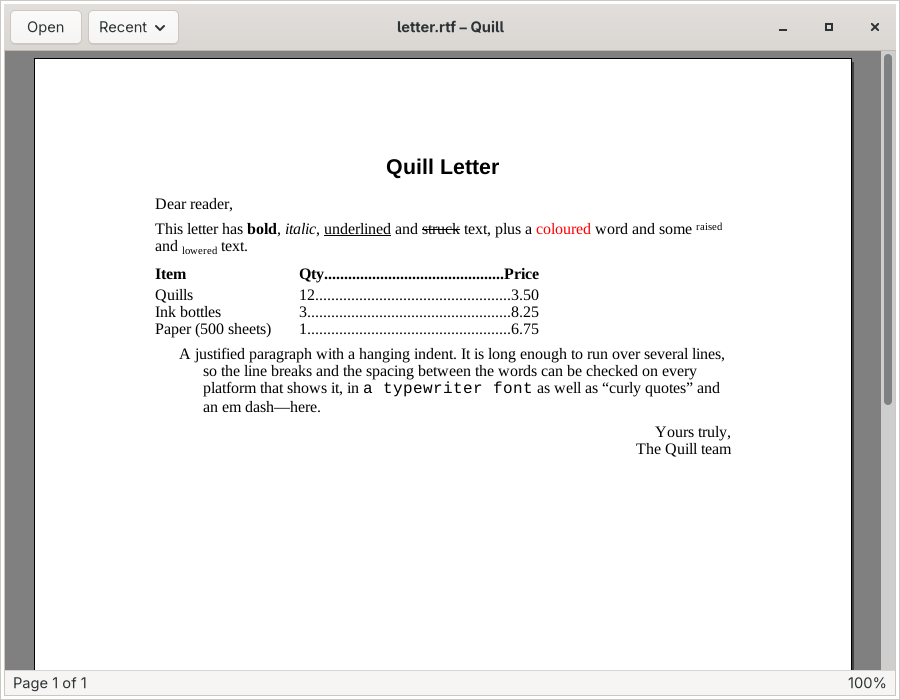
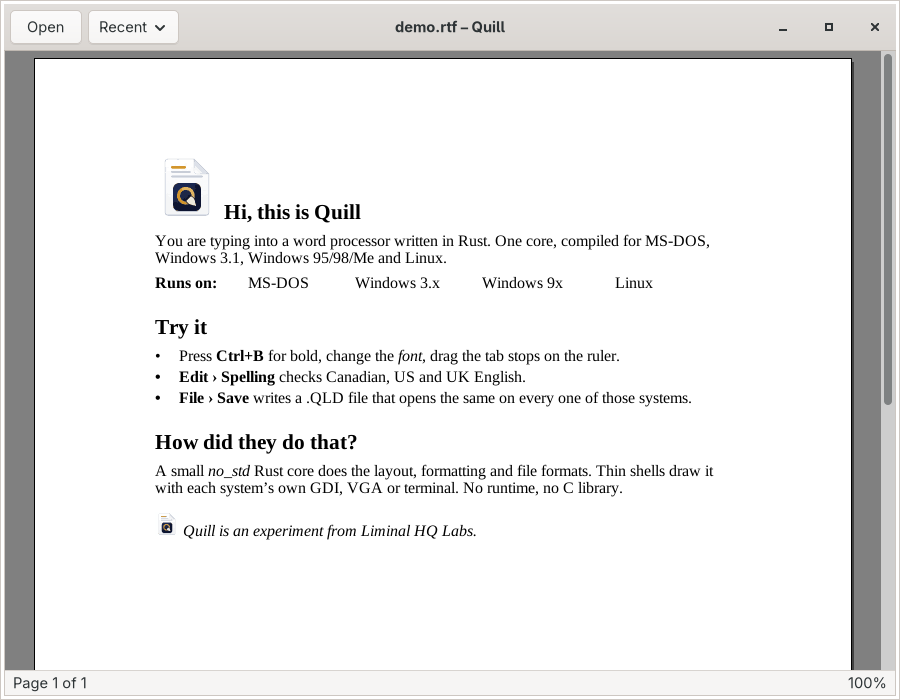
test(linux): open the shipped samples in the viewer test
**What:** the viewer's every-document test now also opens each `.rtf`
and `.qld` in `samples`, so the demo document that ships is drawn at
scales 1.0, 1.25 and 1.5. The 1x screenshot in `docs/media` shows it.

**Check:** `tools/frames.sh samples/demo.rtf` gave 100.000 % equal in
every frame, pictures included.

diff --git a/docs/progress.md b/docs/progress.md
@@ -13,7 +13,7 @@ What is built, how it was shown to work, what is blocked and what was assumed. U
 
 | Step | State | Notes |
 |---|---|---|
-| GTK4 viewer (G1) | Done on the host, Xvfb and a headless Weston; fractional scales only in GTK's offscreen renderer | `linux/quill-gtk` builds `quill`, a read-only viewer: open from the command line, the Open dialog, the recent list and drag and drop; wheel, keys and scroll bars; Ctrl+wheel, Ctrl+plus, Ctrl+minus, Ctrl+0 and Ctrl+9 zoom; `Page X of N` and the zoom in the status line; the title function with the `*` mark; the window size in `gtk.ini` and the recent files and zoom in `QUILL.INI`; a dark desk that follows GTK's colour scheme with the paper white (LNX-1 to LNX-6). The page is `quill_paint::pixel` through `paint_sheet` into a device-size texture, kept until something changes. Proved: 31 tests (`cd linux/quill-gtk && cargo test`: every `.rtf` and `.qld` in `tests/docs` opens and draws, the layout dumps at 1440 equal the P4 goldens, three pixel goldens, the view model, names, settings and the next-session round trip); `linux/quill-gtk/tools/frames.sh` shows the page 100.000 % equal to its texture in an X capture at scale 1 and at `GDK_SCALE=2` and in GTK's own render at 1.0, 1.25, 1.5, 1.75 and 2.0; a headless Weston at scale 2 gave the same; the keys and the Open dialog were driven. Not done: a fractional scale on a real compositor (Weston has none), choosing a file in the dialog, a drop from a file manager, F11, the hand-off to a running window, IME and Orca (G2, G7), the `linux` CI job (G8) |
+| GTK4 viewer (G1) | Done on the host, Xvfb and a headless Weston; fractional scales only in GTK's offscreen renderer | `linux/quill-gtk` builds `quill`, a read-only viewer: open from the command line, the Open dialog, the recent list and drag and drop; wheel, keys and scroll bars; Ctrl+wheel, Ctrl+plus, Ctrl+minus, Ctrl+0 and Ctrl+9 zoom; `Page X of N` and the zoom in the status line; the title function with the `*` mark; the window size in `gtk.ini` and the recent files and zoom in `QUILL.INI`; a dark desk that follows GTK's colour scheme with the paper white (LNX-1 to LNX-6). The page is `quill_paint::pixel` through `paint_sheet` into a device-size texture, kept until something changes. Proved: 31 tests (`cd linux/quill-gtk && cargo test`: every `.rtf` and `.qld` in `tests/docs` and `samples` opens and draws, the layout dumps at 1440 equal the P4 goldens, three pixel goldens, the view model, names, settings and the next-session round trip); `linux/quill-gtk/tools/frames.sh` shows the page 100.000 % equal to its texture in an X capture at scale 1 and at `GDK_SCALE=2` and in GTK's own render at 1.0, 1.25, 1.5, 1.75 and 2.0; a headless Weston at scale 2 gave the same; the keys and the Open dialog were driven. Not done: a fractional scale on a real compositor (Weston has none), choosing a file in the dialog, a drop from a file manager, F11, the hand-off to a running window, IME and Orca (G2, G7), the `linux` CI job (G8) |
 | End of session | Done on Win16 and Win32; Linux and autosave pending | `QUILL.EXE` and `QUILL32.EXE` answer `WM_QUERYENDSESSION` with Exit's question and refuse on Cancel or a failed save, and write `QUILL.RCV` on `WM_ENDSESSION` and on a refusal (W16-8, W9X-8, CORE-7). `QUILL32.EXE` sets a shutdown block reason on Vista and later (W9X-9). Win16 data segment 31,504 to 31,560 bytes (184 free). Proved: unit tests; `win9x/tools/wine-endsession.sh` (Cancel, Yes and No under `wineboot --end-session`); `win16/tools/e2e-endsession-w31.sh` on Windows 3.11 in DOSBox-X (Exit Windows shows the question, Cancel keeps Windows, No ends it and leaves `QUILL.RCV`). On ReactOS 0.4.16 the question appears but Cancel does not stop the shutdown and no `WM_ENDSESSION` is sent, so the copy at refusal is what saves the text; the Win16 build under WineVDM there was not run. Not done: offering `QUILL.RCV` at the next start, deleting it after a save, the GTK4 inhibit and the terminal SIGHUP and SIGTERM catch, Restart Manager hooks for the installer, a run on real Vista or later |
 | Win9x editing | Done under Wine and on a real Windows 95 OSR2.5 in DOSBox-X at 640 by 480; Windows 98 and Me not run | Fixes from the hand test of `fix/win9x-layout`: page-width zoom with a View > Zoom submenu (page and ruler centred, no horizontal bar at 640 by 480), Ctrl shortcuts from key-down (Ctrl+I no longer types a tab), flat Windows 95 toolbar buttons, Insert > Page Number and Page Count in the body, print preview with its own bar of buttons and exact restore, bullet and numbered list Backspace and joins, vertical scroll bar, wheel, Page Up and Down, page edges, tooltips (COMCTL32 4.00) and status hints, mouse selection (click, drag, Shift+click, double, triple, margin), menu separators (DOS menus too), Save As that keeps the name when the type changes, and the recent-file list in the File menu. Host tests: `editing.rs` (model-based list test, hit-testing and shortening properties, shortcut audit); `win9x/tools/wine-editing.sh` for the window; screenshots in `docs/media/win9x-editing-*`. Fixed after the first hand test: the caret and clicks disagreed with the drawn text at Page Width (widths were measured under the zoom's mapping mode), and Save As upper-cased long names. Not proven: the mouse wheel on Windows 95 (the guest has no wheel driver, so `xdotool` button 4 and 5 reached nothing; `WM_MOUSEWHEEL` is proven under Wine, the `MSWHEEL_ROLLMSG` path is written from the documentation only), 800 by 600 and larger screens on real Windows 95 (the test bed's display change did not complete; Wine screenshots at 800 by 600 stand in), flicker, printing from the preview button |
 | M7 Pictures | Started | `quill-inflate` (streaming deflate, 32 KB window, checked against real zlib streams) and `quill-image`: BMP (1, 4, 8, 24 bits, both directions; RLE and 16 or 32 bits refused) and PNG (every colour type and depth, all filters, split IDAT; interlaced refused) decoded by rows, a box-filter row shrinker and a 16-colour ordered dither with a hashed golden. Pictures are now in documents: a picture table and pool (D77), picture boxes in layout, `PICT` in `.QLD`, Insert > Picture for BMP and PNG, and the DOS placeholder box (host, DOSBox and Wine scenario `m7-picture`). RTF `\pict` now reads and writes both kinds (PNG as `\pngblip`, BMP as `\dibitmap0`; the host tests round-trip the original bytes, and LibreOffice shows both pictures of `tests/docs/pictures.rtf` from the original and from Quill's rewrite). The Win32 page draws pictures (decoded by rows, scaled by a box filter to the shown size, cached three at a time; a failed or unaffordable picture is a grey box), checked under Wine (`docs/media/m7-pictures-win32-wine.png`). PNG chunk CRCs and the zlib Adler-32 are now checked. Under a store with a 1.5 MB budget (`crates/quill-host/tests/pictures.rs`) a 3 MB and an over-limit picture are refused, the pool gives back what it took and the document saves identical bytes; the DOSBox-X 4 MB run is not done. Not yet: printing of pictures, Win16 and the DOS graphics display, a real-Windows screenshot |

diff --git a/docs/linux.md b/docs/linux.md
@@ -188,11 +188,11 @@ The first GTK work is a spike that answers what is not known: whether GTK4 shows
 
 ### What was proved
 
-- **Opens every document.** `tests/viewer.rs` opens every `.rtf` and `.qld` in `tests/docs`, checks the title, draws it at scales of 1.0, 1.25 and 1.5, and checks the buffer's size, the white sheet and the ink on it.
+- **Opens every document.** `tests/viewer.rs` opens every `.rtf` and `.qld` in `tests/docs` and in `samples` (the demo document that ships included), checks the title, draws it at scales of 1.0, 1.25 and 1.5, and checks the buffer's size, the white sheet and the ink on it.
 - **The layout equals the goldens.** `Document::dump_layout` lays the open document out again at 1440 units to the inch with the vendored fonts and writes `dump_story`'s text; for `letter`, `lists`, `headers`, `pictures` and `plain` it equals `tests/golden/layout/*.outline-1440.txt` byte for byte. What the window shows is the same document laid out at 96, as the Windows and DOS graphics builds do; the 1440 dump proves the viewer reads the same document through the same code, not that the screen's line breaks are the dump's.
 - **Pixel goldens.** `tests/golden/gtk/letter.1.00.png`, `letter.1.50.png` and `lists.1.25.zoom125.dark.png` are the viewer's buffers at a display scale of 1.0, 1.5 and 1.25 with a zoom of 100, 100 and 125 %, compared byte for byte (the surface is deterministic software drawing, so no tolerance is needed; `QUILL_UPDATE_GOLDEN=1` rewrites them). `docs/media` shows what GTK does with them.
 - **The view model.** 23 unit tests cover the mapping, the device size, scroll limits, centring, sideways scroll, visible sheets, the status page, page keys, the zoom steps and limits, zooming around a point, page-width zoom, scroll bar ranges, the title, names, the stand-in names and settings. Two more tests check that recent files and zoom come back in the next session.
-- **The page is pixel-exact in a real frame.** `linux/quill-gtk/tools/frames.sh` (its own Xvfb; stops only that process) compares each frame with the texture the client says it drew, pixel for pixel: an X capture at scale 1 (876 × 619 pixels, 6,213 dark text pixels), an X capture at `GDK_SCALE=2` (1,752 × 1,238), and a capture from a headless Weston at scale 2 (3,576 × 2,350, run by hand). Every one is 100.000 % equal with a largest channel difference of 0.
+- **The page is pixel-exact in a real frame.** `linux/quill-gtk/tools/frames.sh` (its own Xvfb; stops only that process) compares each frame with the texture the client says it drew, pixel for pixel: an X capture at scale 1 (876 × 619 pixels, 6,213 dark text pixels for `letter.rtf`; the same run on `samples/demo.rtf` gave 8,182, with its pictures), an X capture at `GDK_SCALE=2` (1,752 × 1,238), and a capture from a headless Weston at scale 2 (3,576 × 2,350, run by hand). Every one is 100.000 % equal with a largest channel difference of 0.
 - **And at fractional scales,** from GTK's own renderer drawing the window's content at 1.25, 1.5 and 1.75 (and 1.0 and 2.0): 100.000 % equal in each, text included. This is what the spike measured on GNOME, now with the real page.
 - **Input.** Under Xvfb with `xdotool` (no window manager): Ctrl+plus, Ctrl+minus (100 % to 90 % to 75 %), Ctrl+0 (100 %), Ctrl+9 (81 % in a 700-pixel window), Page Down, End, the wheel and Ctrl+Q act as described, and a Ctrl+Q after zooming leaves `Zoom=125`, the window size and the recent file in the settings. The Open dialog opens, lists the folder of the open file and filters by type (`docs/media/gtk-viewer-open-dialog.png`).
 
